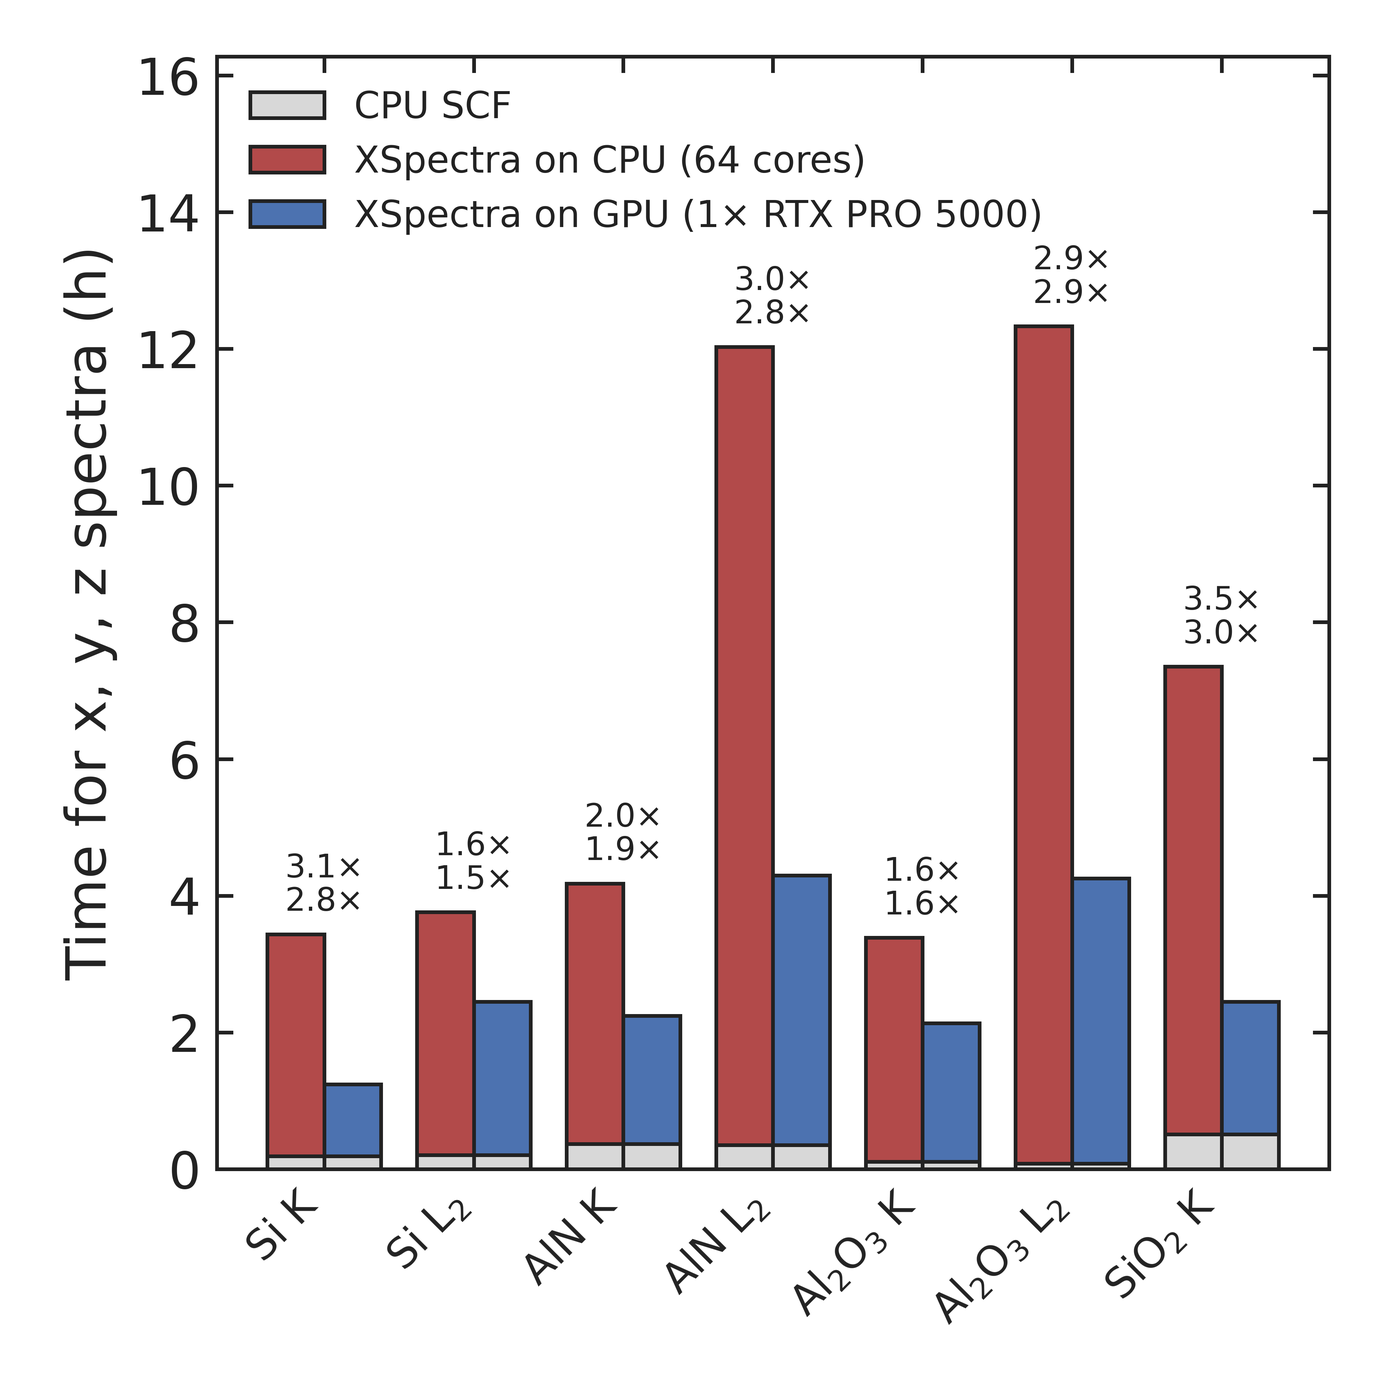
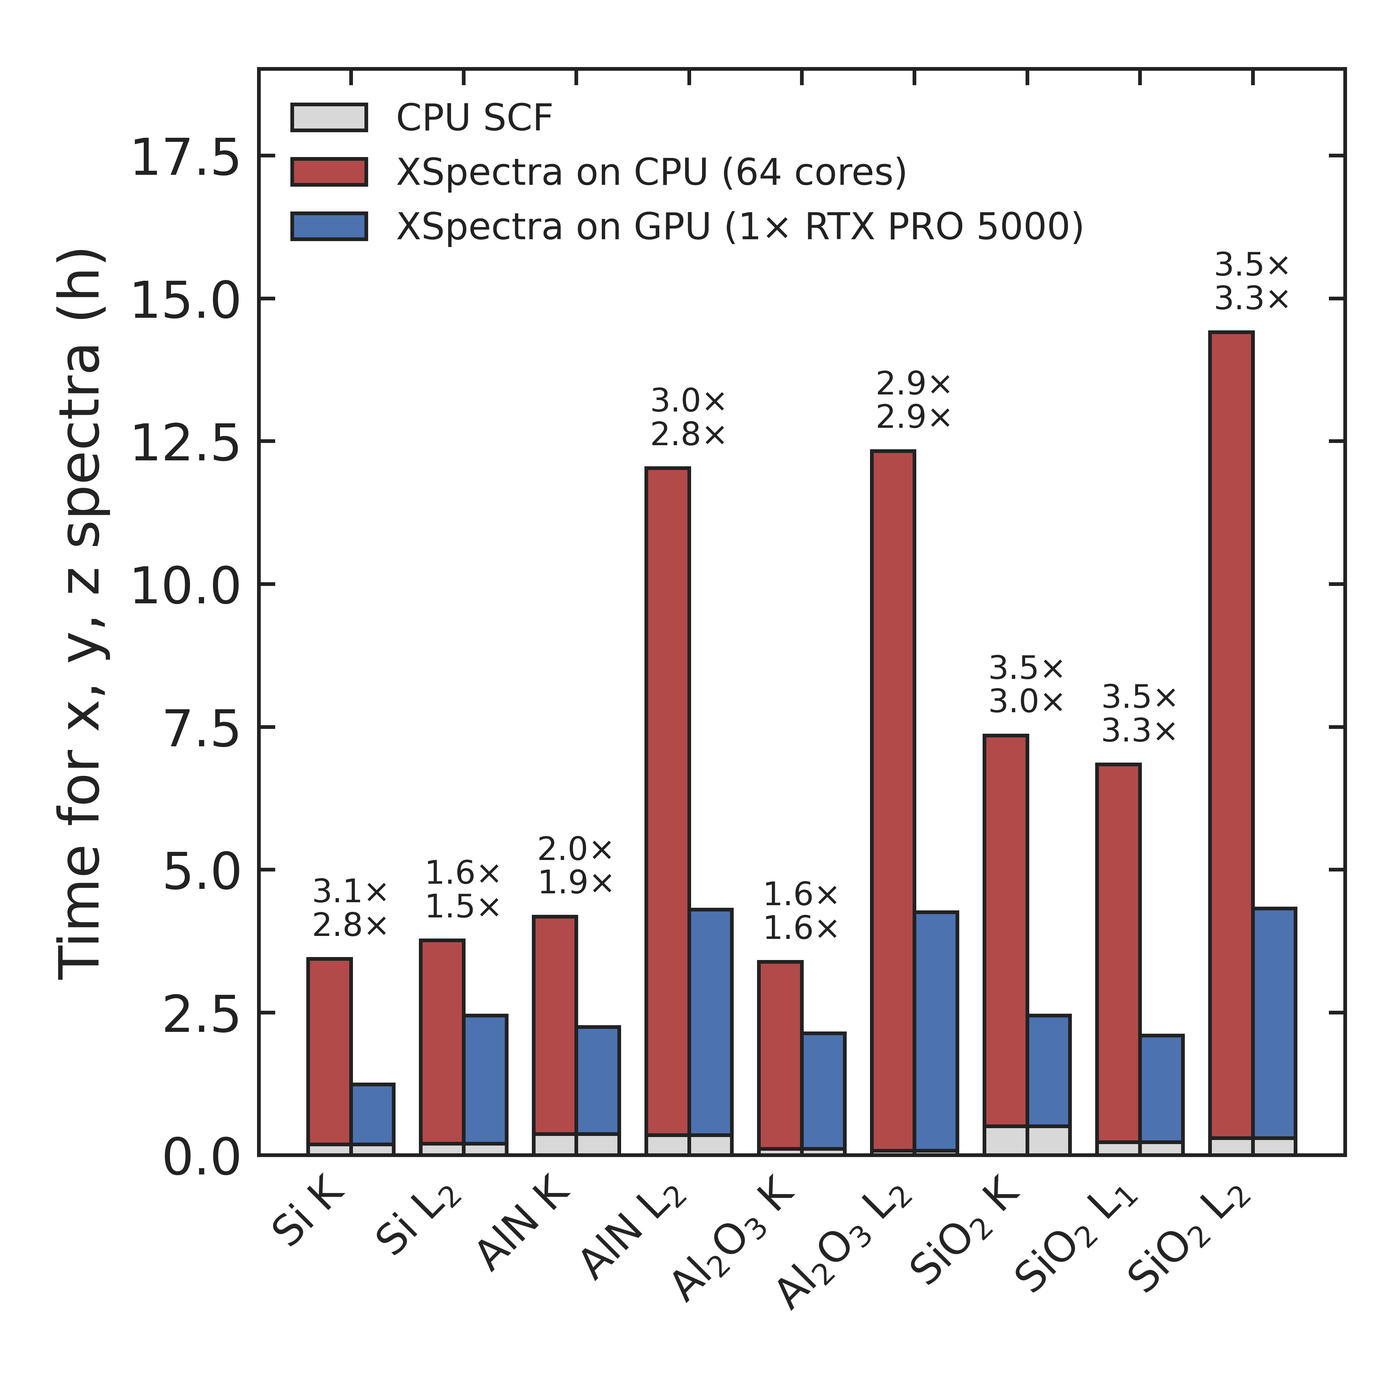
README: Si L1 and L2 edges of 162-atom SiO2 (3.5x XSpectra, 3.3x SCF+XSpectra)

Changed region(s): [[0.0307, 0.0307, 0.9829, 0.9521], [0.0307, 0.4607, 0.0921, 0.7064]]

diff --git a/README.md b/README.md
@@ -99,8 +99,7 @@ convergence), computed from the same SCF data on the CPU (64 cores, open circles
 ## Benchmark: system size, edges, materials and molecules
 
 The benchmark compares one GPU (RTX PRO 5000 Blackwell) with a 64-core CPU node on the same jobs. It then looks
-at multi-GPU runs and other GPU models on the 162-atom SiO₂ cell. The L₁ and L₂ edges of the 162-atom SiO₂ cell
-are still running and will be added later.
+at multi-GPU runs and other GPU models on the 162-atom SiO₂ cell, and at the Si L₁ and L₂ edges of the same cell.
 
 **Common settings**
 - **Method**: XCH core hole with pslibrary 1.0.0 PAW datasets and an absorber dataset generated with `ld1.x`;
@@ -159,7 +158,7 @@ How the speed-up changes with size:
 | Si (diamond) | 64 | 64 | K / L₂ | 3.1 / 1.6\* | 2.8 / 1.5\* | 6.1 GiB |
 | w-AlN | 108 | 75 | K / L₂ | 2.0\* / 2.9 | 1.9\* / 2.8 | 6.1 GiB |
 | α-Al₂O₃ | 120 | 75 | K / L₂ | 1.6\* / 2.9 | 1.6\* / 2.9 | 6.1 GiB |
-| α-SiO₂ | 162 | 36 | Si K | 3.6 | 3.0 | 10.0 GiB |
+| α-SiO₂ | 162 | 36 | Si K / L₁ / L₂ | 3.6 / 3.5 / 3.5 | 3.0 / 3.3 / 3.3 | 10.0–10.3 GiB |
 | CH₄, H₂CO, CF₃C≡CH (each C) | 4–7 | Γ | C K | 1.2–1.7 | 1.2–1.6 | 4.2–4.4 GiB |
 
 \* **Two CPU node types**: the CPU runs used two node types with the same core count.
@@ -209,8 +208,8 @@ All GPU runs agree with the CPU run to ≤ 1.1e-10 (a, b, first 50 iterations) a
 - **Validated cases**:
   - K-edge dipole: on SiO₂ supercells of 9–162 atoms, on Si, AlN and Al₂O₃, and on the C K edge of
     molecules (see the benchmark section);
-  - L₂ edge: on Si, AlN and Al₂O₃ (64–120 atoms);
-  - L₁ edge: on a 9-atom test cell;
+  - L₂ edge: on Si, AlN, Al₂O₃ and 162-atom SiO₂ (64–162 atoms);
+  - L₁ edge: on 162-atom SiO₂ and a 9-atom test cell;
   - K-edge quadrupole and the L₃ edge: on the 9-atom test cell only;
   - k-point pools (`-nk`), several MPI ranks sharing one GPU, and 2–3 GPUs with one rank per GPU.
 - **Stops with an error on the GPU**: norm-conserving pseudopotentials, `gamma_only`, noncollinear
